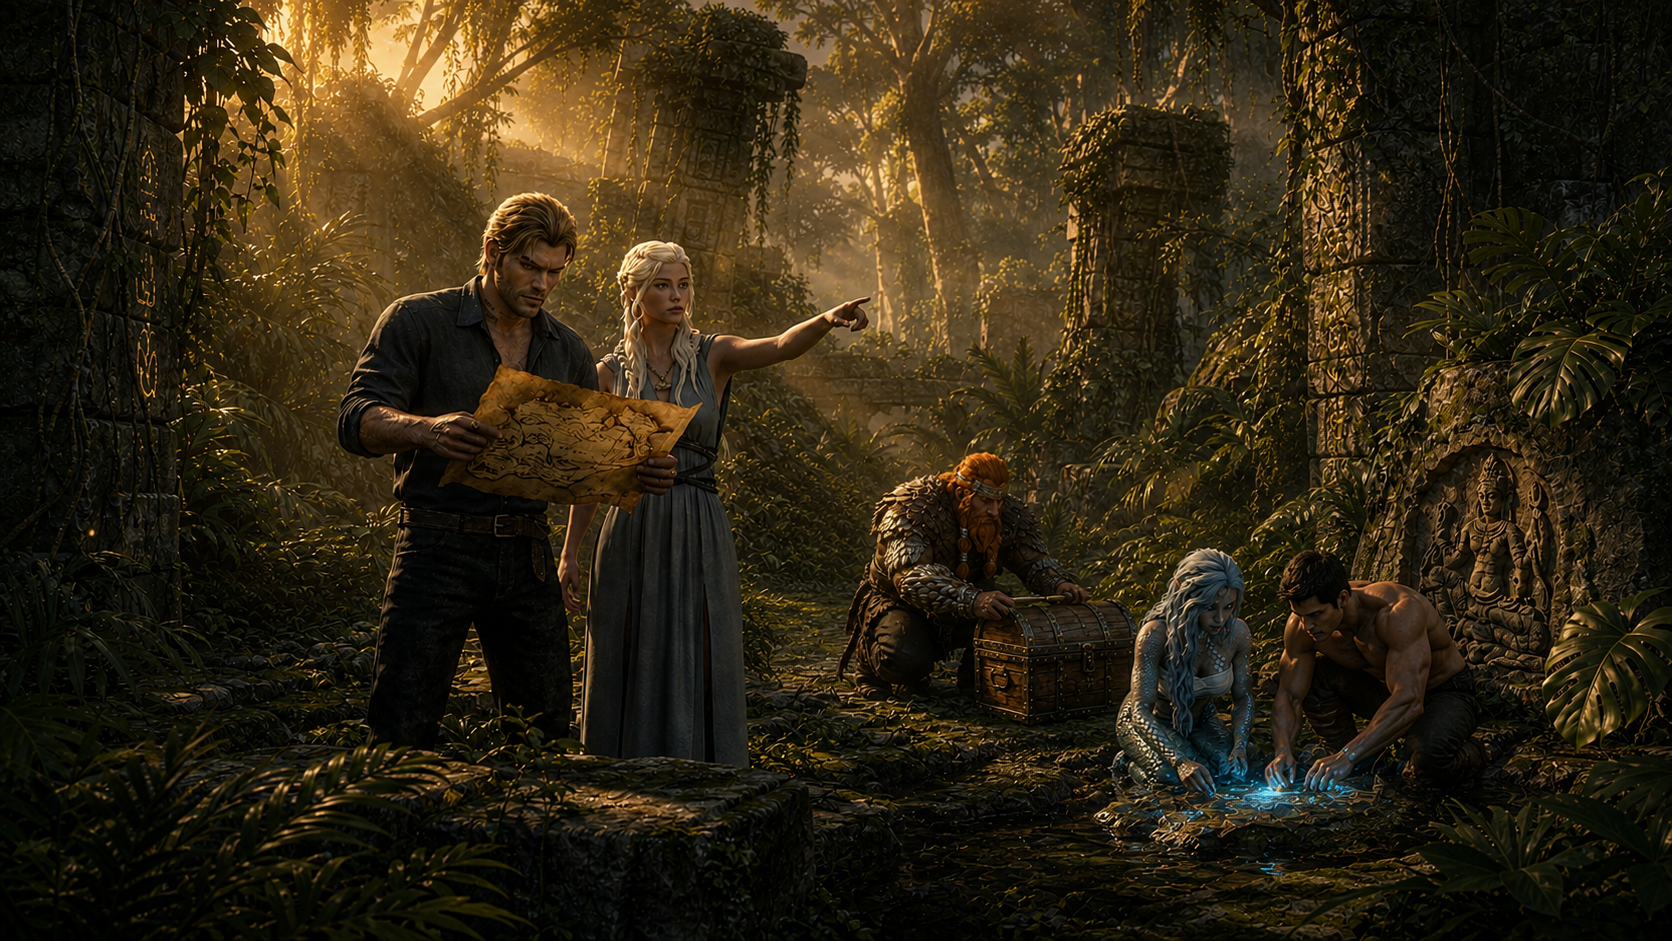
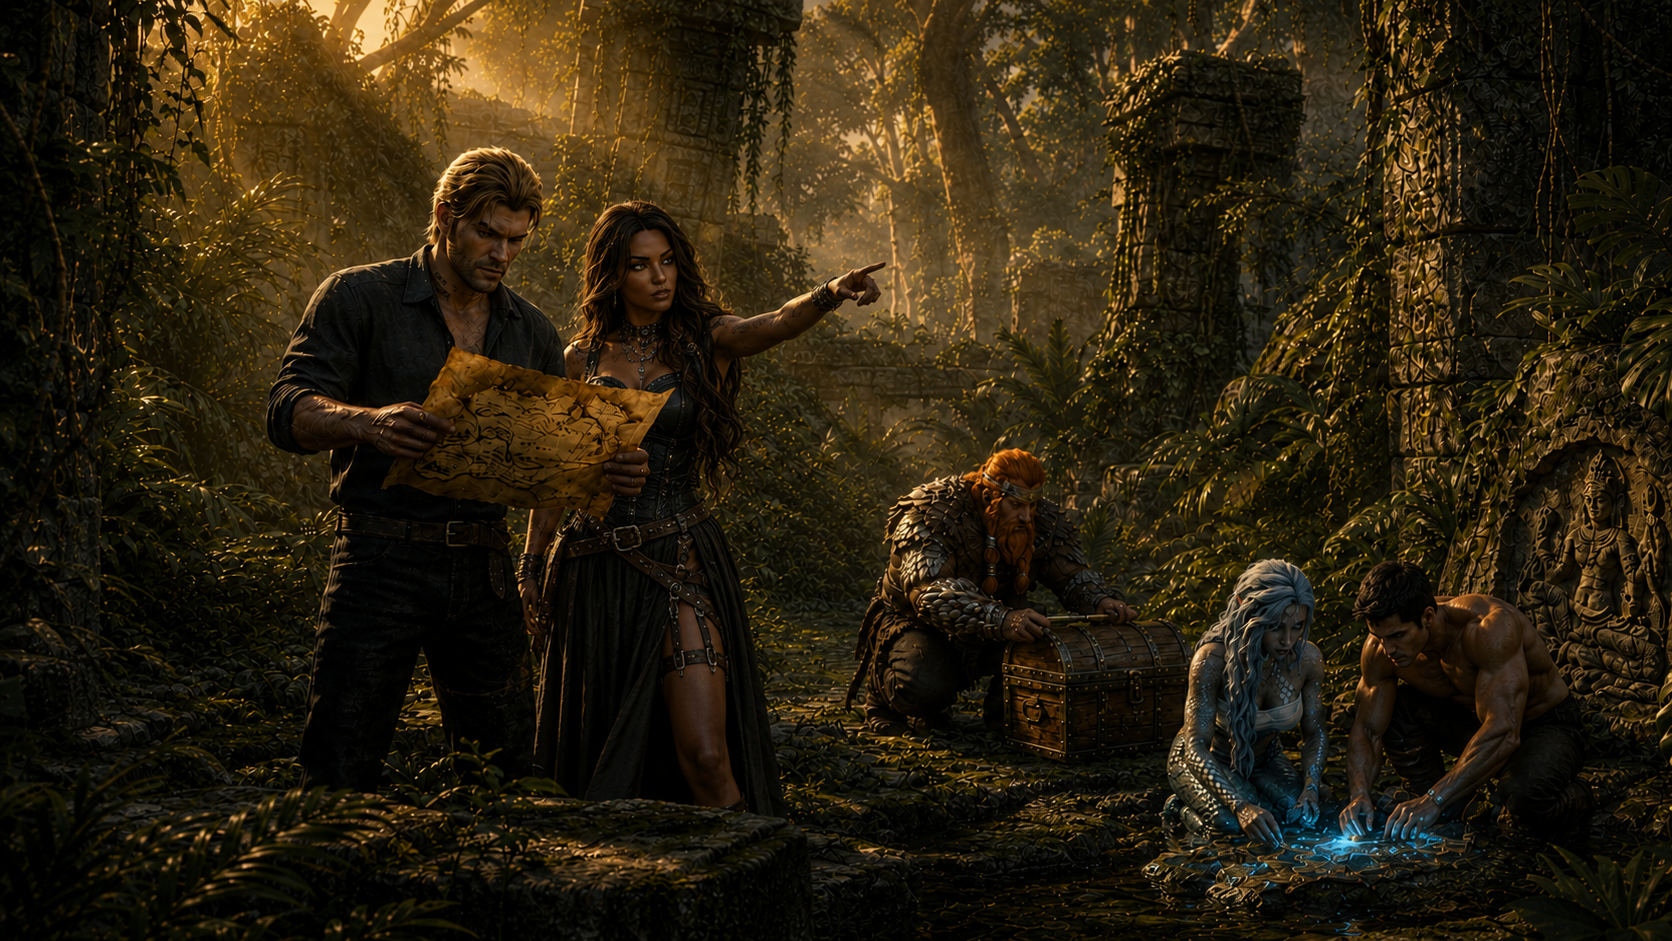
Mejorar visibilidad y composición del carrusel.
Se ajusta la posición de Gremios en inicio, se destaca el título de Clases en galería y se actualizan assets de eventos.

diff --git a/src/pages/Inicio.jsx b/src/pages/Inicio.jsx
@@ -43,6 +43,7 @@ const BENTO_ITEMS = [
   {
     className: 'bento-item',
     bg: '/assets/images/carousel/gremios-carrusel.png',
+    bgPosition: 'center 5%',
     title: 'Gremios',
     desc: 'Organizaciones y hermandades del servidor.',
     path: '/gremios',
@@ -63,7 +64,13 @@ export default function Inicio() {
   function renderBentoItem(item, i) {
     const content = (
       <>
-        <div className="bento-bg" style={{ backgroundImage: `url('${item.bg}')` }} />
+        <div
+          className="bento-bg"
+          style={{
+            backgroundImage: `url('${item.bg}')`,
+            backgroundPosition: item.bgPosition ?? 'center',
+          }}
+        />
         <div className="bento-overlay" />
         <div className="bento-content">
           <h2>{item.title}</h2>

diff --git a/src/pages/Galeria.jsx b/src/pages/Galeria.jsx
@@ -100,7 +100,7 @@ function GaleriaCarousel() {
               style={s.img ? { backgroundImage: `url('${s.img}')`, backgroundSize: 'cover', backgroundPosition: s.imgPos || 'center' } : {}}
             />
             <div className="galeria-slide-caption">
-              <span className="galeria-slide-label">{s.label}</span>
+              <span className={`galeria-slide-label${s.label === 'Clases' ? ' galeria-slide-label--clases' : ''}`}>{s.label}</span>
               <p>{s.desc}</p>
             </div>
           </div>

diff --git a/src/styles/global.css b/src/styles/global.css
@@ -8613,6 +8613,14 @@ select.gmodal-input option {
   line-height: 1;
 }
 
+.galeria-slide-label--clases {
+  color: #f7f3ff;
+  text-shadow:
+    0 0 12px rgba(255, 255, 255, 0.6),
+    0 0 26px rgba(255, 255, 255, 0.35),
+    0 0 30px rgba(0, 0, 0, 0.9);
+}
+
 .galeria-slide-caption p {
   font-family: 'Cinzel', serif;
   font-size: 0.78rem;
